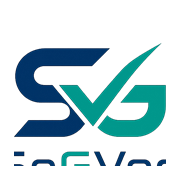
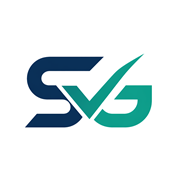
style: Mejora en los iconos y estilos

diff --git a/styles.css b/styles.css
@@ -552,11 +552,11 @@ p {
   }
 
   .site-header.is-compact .nav {
-    min-height: 58px;
+    min-height: 66px;
     flex-wrap: nowrap;
     justify-content: flex-start;
     gap: 0.7rem;
-    padding: 0.35rem 0;
+    padding: 0.25rem 0;
   }
 
   .site-header.is-compact .brand {
@@ -564,14 +564,14 @@ p {
   }
 
   .site-header.is-compact .brand-logo-crop {
-    width: 64px;
-    height: 40px;
+    width: 78px;
+    height: 56px;
   }
 
   .site-header.is-compact .brand-logo-crop img {
-    top: -23px;
-    left: -18px;
-    width: 96px;
+    top: -28px;
+    left: -24px;
+    width: 116px;
   }
 
   .site-header.is-compact .nav-links {
